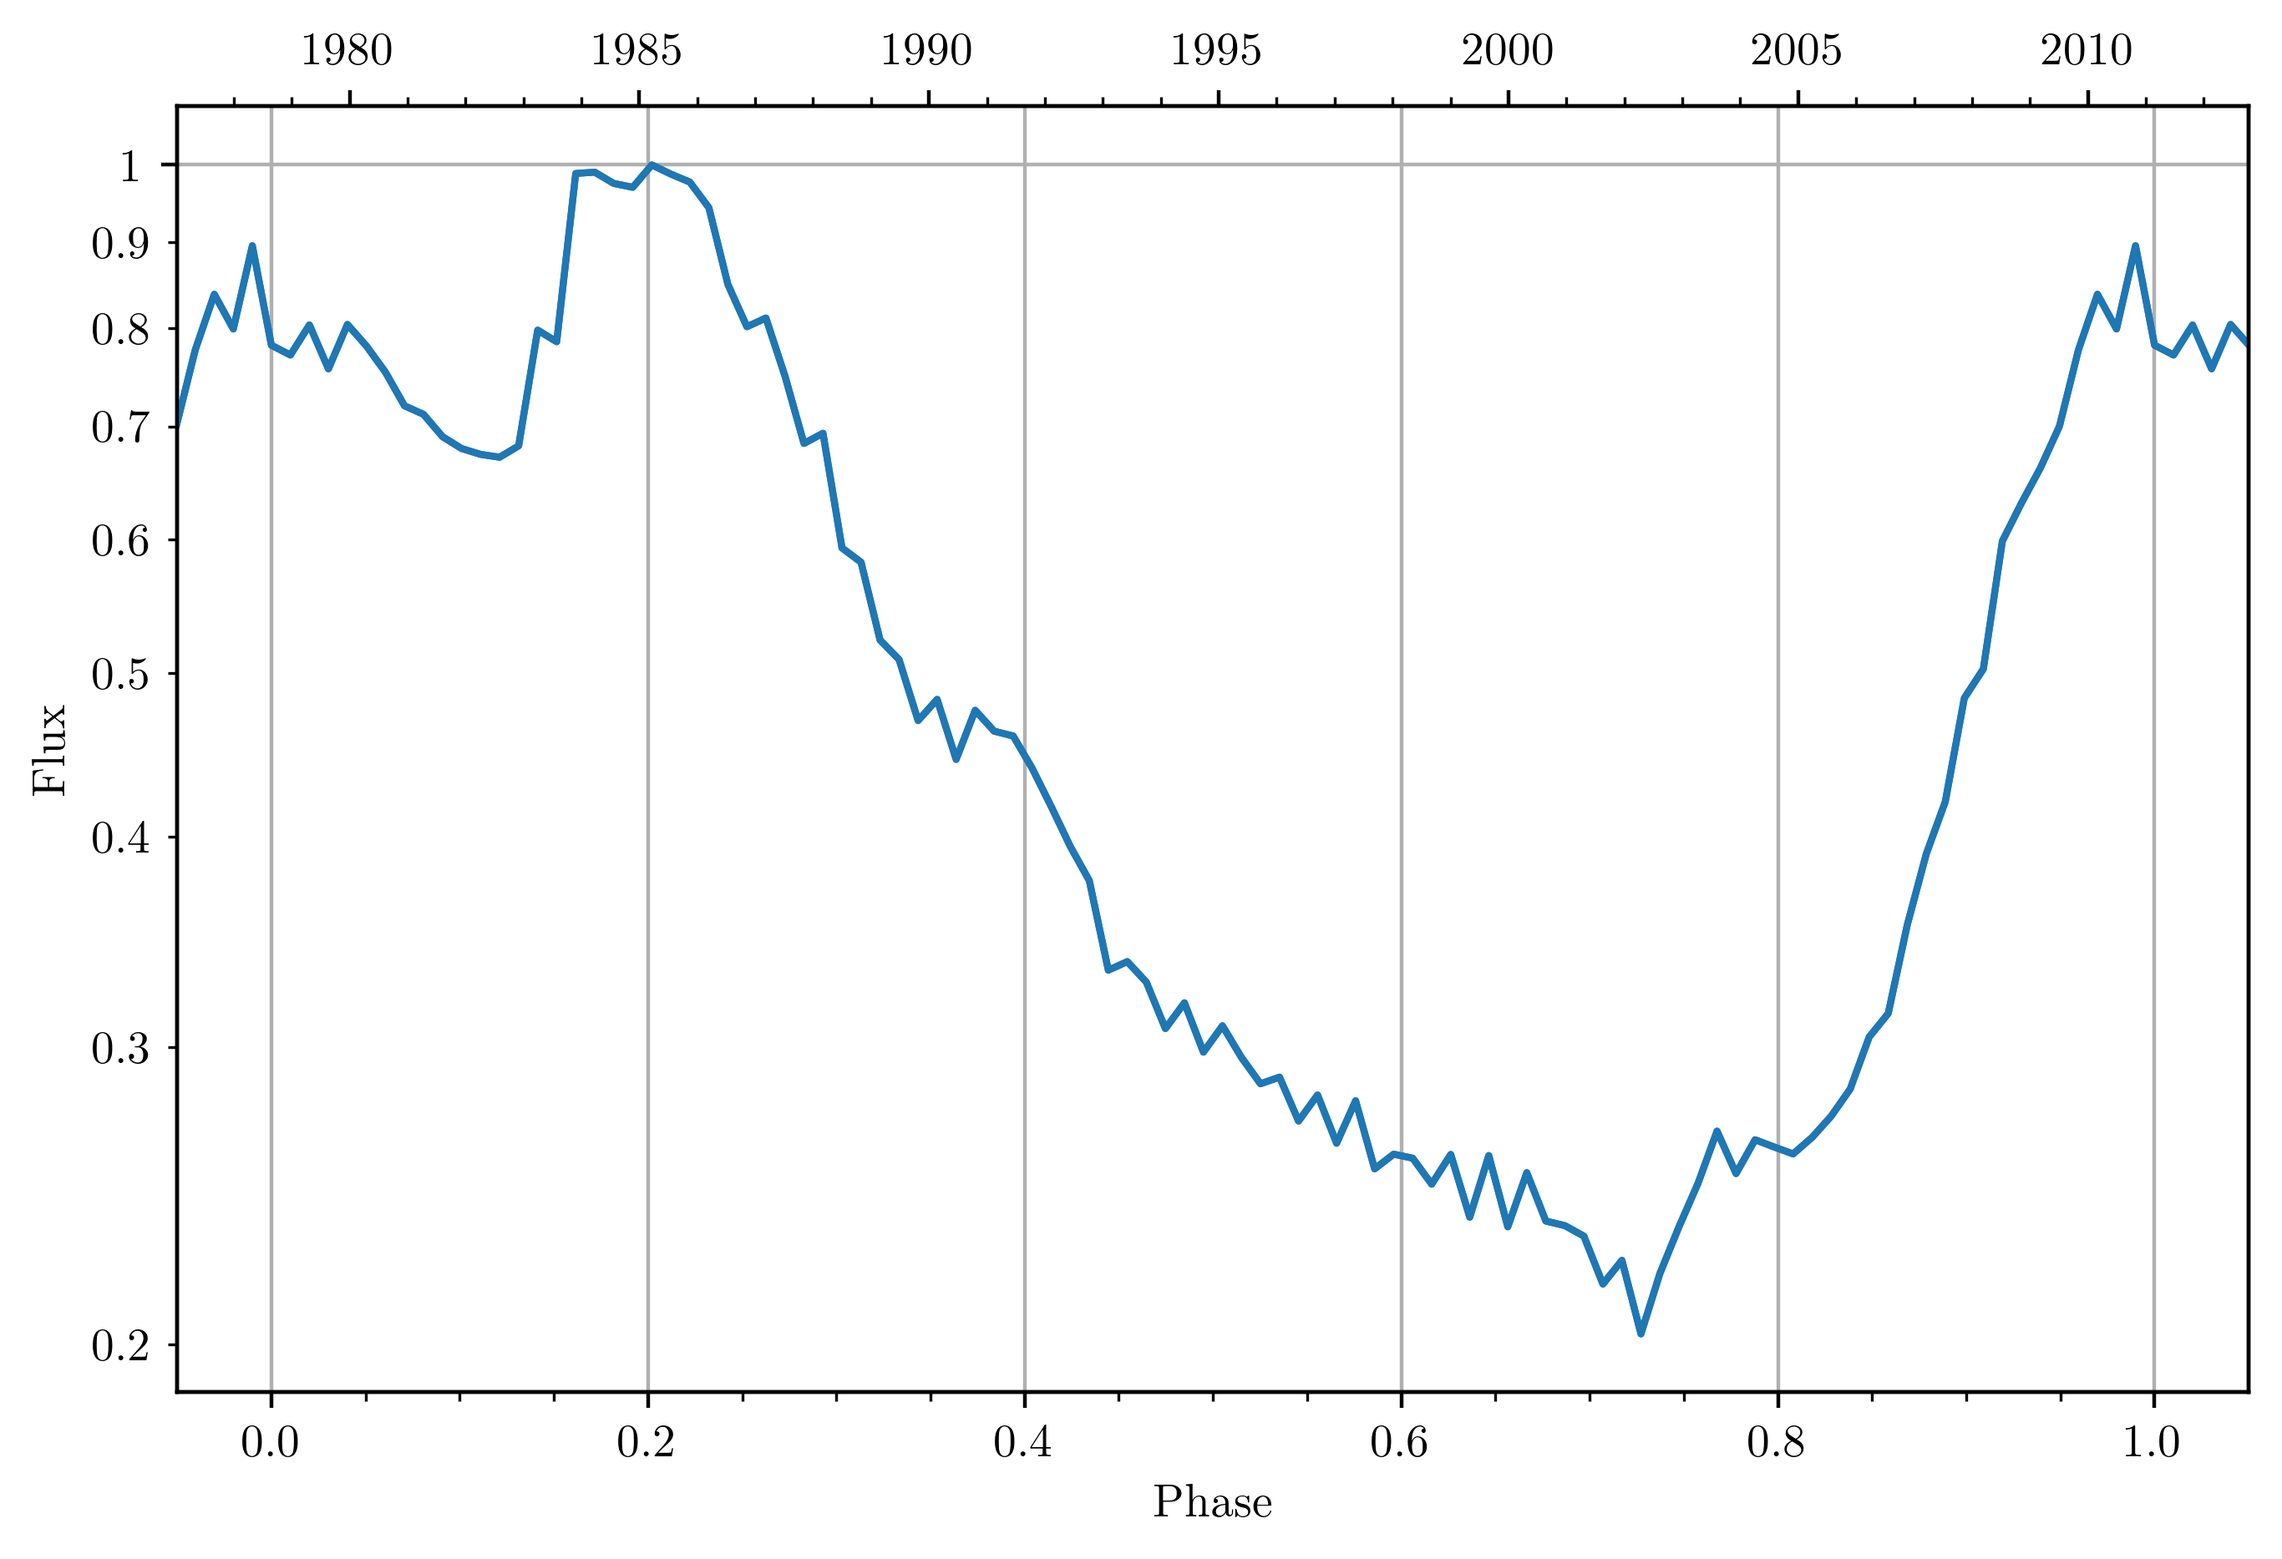
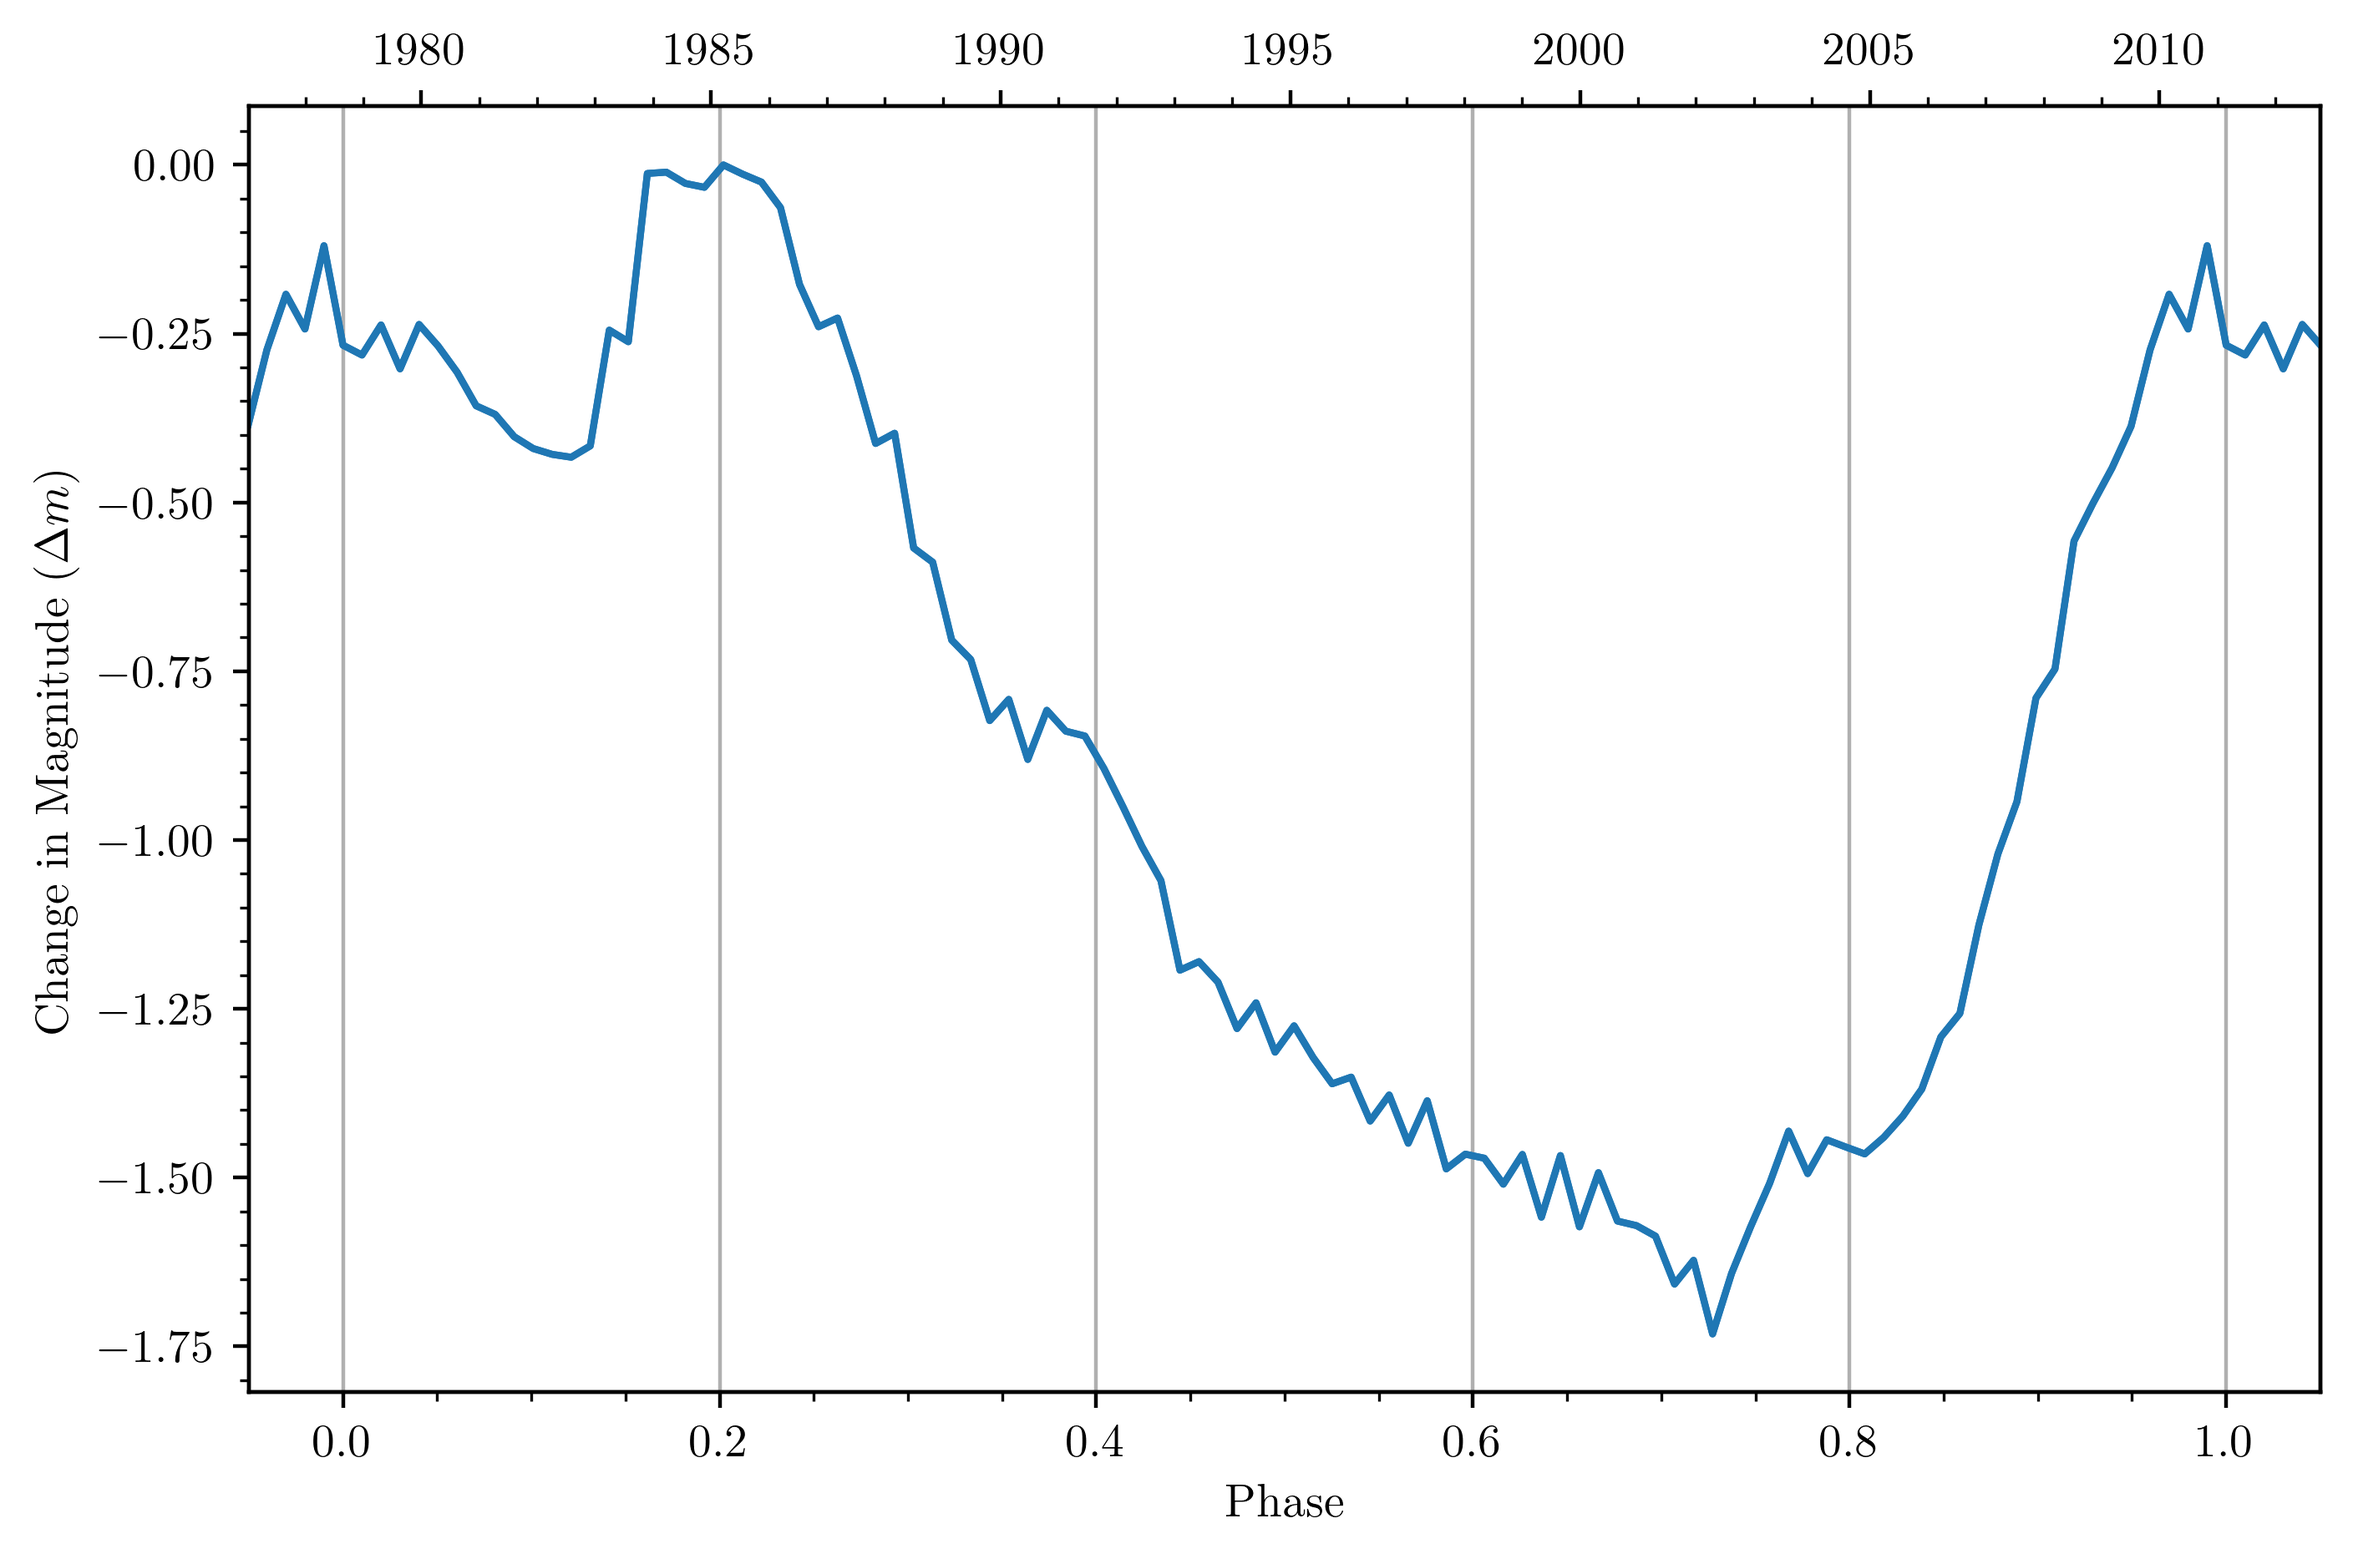
Update WR48a light curve image

diff --git a/Plots_File.py b/Plots_File.py
@@ -1243,10 +1243,11 @@ def WR140_lightcurve(n=100, shells=2, magscale=True):
     fig.savefig('Images/WR140_Light_Curve.png', dpi=400, bbox_inches='tight')
     fig.savefig('Images/WR140_Light_Curve.pdf', dpi=400, bbox_inches='tight')
     
-def WR48a_lightcurve():
+def WR48a_lightcurve(n=100, shells=5, magscale=True):
     ''' Thanks to https://stackoverflow.com/questions/21920233/matplotlib-log-scale-tick-label-number-formatting for the y axis tick labels
     '''
     from matplotlib.ticker import FuncFormatter
+    from matplotlib.scale import LogScale
     phases, fluxes = gm.generate_lightcurve(wrb.WR48a, n=100, shells=5)
     
     fig, ax = plt.subplots(figsize=(8, 5))
@@ -1273,27 +1274,35 @@ def WR48a_lightcurve():
     right_p = 1.05
     
     
-    scattersize = 8
-    ax.plot(phases, fluxes)
-    # ax.scatter(phases, fluxes, s=scattersize)
-    ax.set(xlabel='Phase', ylabel='Flux', yscale='log')
-    # for x in [0.1, 1.1]:
-    #     ax.axvline(x, ls='--', c='tab:red')
-    ax.grid(True)
-    ax.set(xlim=(left_p, right_p))
-    ax.minorticks_on()
-    ax.yaxis.set_major_formatter(FuncFormatter(lambda y, _: '{:g}'.format(y)))
-    ax.yaxis.set_minor_formatter(FuncFormatter(lambda y, _: '{:g}'.format(y)))
+    if magscale:
+        ax.plot(phases, np.emath.logn(2.512, fluxes))
+        ax.set(xlabel='Phase', ylabel=r'Change in Magnitude ($\Delta m$)')
+        ax.grid(axis='x')
+        ax.set(xlim=(left_p, right_p))
+        ax.minorticks_on()
+        
+        ax2 = ax.twiny()
+        ax2.minorticks_on()
+        ax2.plot(phases * wrb.WR48a['period'] + peri_year, np.emath.logn(2.512, fluxes))
+        ax2.set(xlim=(left_p * wrb.WR48a['period'] + peri_year, right_p * wrb.WR48a['period'] + peri_year))
+        
+    else:
+        ax.plot(phases, fluxes)
+        ax.set(xlabel='Phase', ylabel='Flux', yscale='log')
+        ax.grid(True)
+        ax.set(xlim=(left_p, right_p))
+        ax.minorticks_on()
+        ax.yaxis.set_major_formatter(FuncFormatter(lambda y, _: '{:g}'.format(y)))
+        ax.yaxis.set_minor_formatter(FuncFormatter(lambda y, _: '{:g}'.format(y)))
+        
+        
+        ax2 = ax.twiny()
+        ax2.minorticks_on()
     
-    
-    ax2 = ax.twiny()
-    ax2.minorticks_on()
-    
-    # ax2.scatter(phases * wrb.WR48a['period'] + peri_year, fluxes, s=scattersize)
-    ax2.plot(phases * wrb.WR48a['period'] + peri_year, fluxes)
-    ax2.set(yscale='log', xlim=(left_p * wrb.WR48a['period'] + peri_year, right_p * wrb.WR48a['period'] + peri_year))
-    ax2.yaxis.set_major_formatter(FuncFormatter(lambda y, _: '{:g}'.format(y)))
-    ax2.yaxis.set_minor_formatter(FuncFormatter(lambda y, _: '{:g}'.format(y)))
+        ax2.plot(phases * wrb.WR48a['period'] + peri_year, fluxes)
+        ax2.set(yscale='log', xlim=(left_p * wrb.WR48a['period'] + peri_year, right_p * wrb.WR48a['period'] + peri_year))
+        ax2.yaxis.set_major_formatter(FuncFormatter(lambda y, _: '{:g}'.format(y)))
+        ax2.yaxis.set_minor_formatter(FuncFormatter(lambda y, _: '{:g}'.format(y)))
     
     fig.savefig('Images/WR48a_Light_Curve.png', dpi=400, bbox_inches='tight')
     fig.savefig('Images/WR48a_Light_Curve.pdf', dpi=400, bbox_inches='tight')
@@ -1407,9 +1416,9 @@ def main():
     # effects_compare()
     # anisotropy_compare()
     
-    WR140_lightcurve()
+    # WR140_lightcurve()
     
-    # WR48a_lightcurve()
+    WR48a_lightcurve()
     # WR48a_plot()
     # WR48a_gif()
     

diff --git a/WR_Geom_Model.py b/WR_Geom_Model.py
@@ -1209,8 +1209,8 @@ def generate_lightcurve(stardata, n=100, shells=1):
     phases = jnp.linspace(0, 1, n)
     fluxes = np.zeros(n)
     
-    im_size = 256
-    # im_size = 600
+    # im_size = 256
+    im_size = 600
     
     for i in range(n):
         starcopy = stardata.copy()
